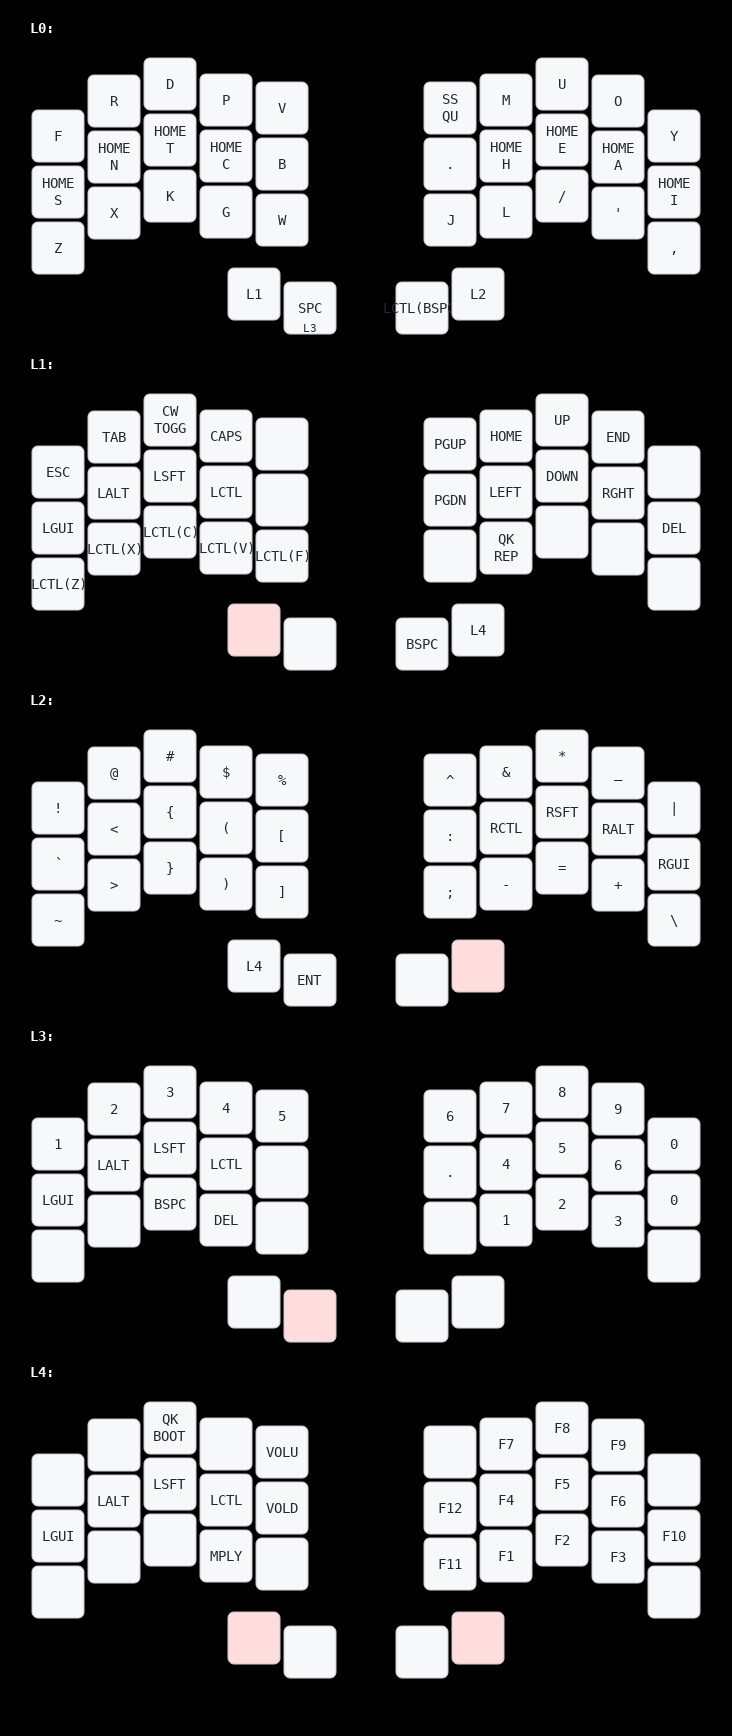
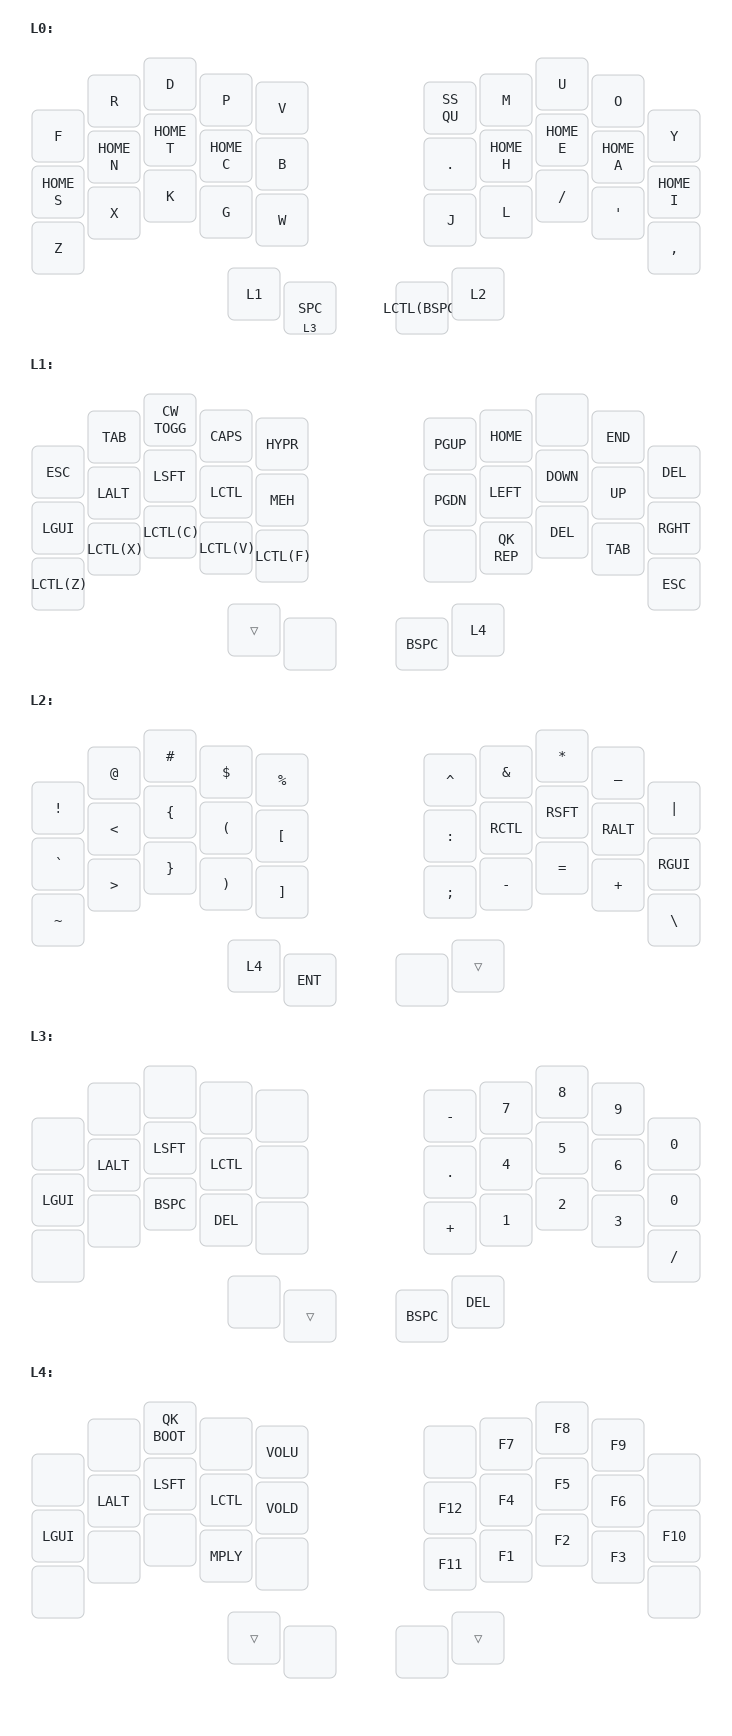
reduced tapping term, removed unused combos, removed number row, added math symbols to number layer, added esc tab del to right side on nav layer, added meh and hyper to nav layer for komorebi

diff --git a/keymap.c b/keymap.c
@@ -148,9 +148,10 @@ bool achordion_eager_mod(uint8_t mod) {
 // };
 // ! ======================================================================================
 
+
 //* Layout
 const uint16_t PROGMEM keymaps[][MATRIX_ROWS][MATRIX_COLS] = {
-	//Base (Recurva Colstag W-V Swap)
+	//Base (Recurva Colstag)
 	[0] = LAYOUT_split_3x5_2(
 		KC_F		, KC_R		  , KC_D		, KC_P		  , KC_V	  	 , 			SS_QU  		 , KC_M		   , KC_U   	 , KC_O  	   , KC_Y		 , 
 		HOME_S      , HOME_N      , HOME_T      , HOME_C      , KC_B	  	 , 			KC_DOT 		 , HOME_H      , HOME_E      , HOME_A      , HOME_I      , 
@@ -159,9 +160,9 @@ const uint16_t PROGMEM keymaps[][MATRIX_ROWS][MATRIX_COLS] = {
 
 	//Nav/Ext
 	[1] = LAYOUT_split_3x5_2(
-		KC_ESC    	, KC_TAB	  , CW_TOGG     , KC_CAPS     , KC_NO     	 , 			KC_PGUP		 , KC_HOME	   , KC_END  	 , KC_END 	   , KC_DEL 	   	 , 
-		KC_LGUI   	, KC_LALT  	  , KC_LSFT     , KC_LCTL     , KC_NO     	 , 			KC_PGDN		 , KC_LEFT	   , KC_DOWN	 , KC_UP	   , KC_RGHT	   	 ,
-		LCTL(KC_Z)	, LCTL(KC_X)  , LCTL(KC_C)  , LCTL(KC_V)  , LCTL(KC_F)	 , 			KC_NO		 , QK_REP 	   , KC_NO  	 , KC_NO  	   , KC_NO 	   	 , 
+		KC_ESC    	, KC_TAB	  , CW_TOGG     , KC_CAPS     , KC_HYPR      , 			KC_PGUP		 , KC_HOME	   , KC_NO  	 , KC_END 	   , KC_DEL	     , 
+		KC_LGUI   	, KC_LALT  	  , KC_LSFT     , KC_LCTL     , KC_MEH       , 			KC_PGDN		 , KC_LEFT	   , KC_DOWN	 , KC_UP	   , KC_RGHT	 ,
+		LCTL(KC_Z)	, LCTL(KC_X)  , LCTL(KC_C)  , LCTL(KC_V)  , LCTL(KC_F)	 , 			KC_NO		 , QK_REP 	   , KC_DEL  	 , KC_TAB  	   , KC_ESC 	 , 
 												  KC_TRNS	  , KC_NO	 	 , 			KC_BSPC		 , MO(4))	   ,
 	
 	//Symbol
@@ -173,9 +174,9 @@ const uint16_t PROGMEM keymaps[][MATRIX_ROWS][MATRIX_COLS] = {
 	
 	//Numpad
 	[3] = LAYOUT_split_3x5_2(
-		KC_1  		, KC_2  	  , KC_3		, KC_4  	  , KC_5	  	 , 			KC_6  		 , KC_7		   , KC_8		 , KC_9		   , KC_0	   	 , 
+		KC_NO  		, KC_NO  	  , KC_NO		, KC_NO  	  , KC_NO	  	 , 			KC_MINS  	 , KC_7		   , KC_8		 , KC_9		   , KC_0	   	 , 
 		KC_LGUI		, KC_LALT	  , KC_LSFT		, KC_LCTL	  , KC_NO	  	 , 			KC_DOT  	 , KC_4		   , KC_5		 , KC_6		   , KC_0 	   	 , 
-		KC_NO  		, KC_NO  	  , KC_BSPC  	, KC_DEL  	  , KC_NO	  	 ,			KC_NO  		 , KC_1		   , KC_2		 , KC_3		   , KC_NO	   	 ,
+		KC_NO  		, KC_NO  	  , KC_BSPC  	, KC_DEL  	  , KC_NO	  	 ,			KC_PLUS  	 , KC_1		   , KC_2		 , KC_3		   , KC_SLSH	 ,
 								 				  KC_NO       , KC_TRNS	  	 , 			KC_BSPC  	 , KC_DEL)	   ,
 	
 	//Function
@@ -186,7 +187,8 @@ const uint16_t PROGMEM keymaps[][MATRIX_ROWS][MATRIX_COLS] = {
 							   	   				  KC_TRNS	  , KC_NO		 , 			KC_NO		 , KC_TRNS)	   ,
 };
 
-//* Combos (Currently set up for Colemak-DH)
+//* Combos (Currently set up for Recurva)
+// Key Definitions
 // Left Hand
 const uint16_t PROGMEM combo1[] = {SS_QU, KC_U, COMBO_END}; // Q+U -> Q
 
@@ -201,12 +203,9 @@ const uint16_t PROGMEM combo8[] = {KC_V, KC_B, COMBO_END}; // V+B -> Left Brace 
 
 
 // Right Hand
-const uint16_t PROGMEM combo9[]  = {KC_G, LCTL(KC_BSPC), COMBO_END}; // Ctrl+Bkspc Key -> Backspace
 const uint16_t PROGMEM combo10[] = {KC_SLSH, KC_QUOT, COMBO_END}; // /+' -> Enter
 const uint16_t PROGMEM combo11[] = {KC_B, KC_DOT, COMBO_END}; // B+. -> Caps Word
-
 const uint16_t PROGMEM combo12[] = {KC_L, KC_SLSH, COMBO_END}; // L+/ -> Delete Bot
-// const uint16_t PROGMEM combo13[] = {KC_QUOT, KC_COMM, COMBO_END}; // '+, -> Delete Bot
 
 const uint16_t PROGMEM combo14[] = {SS_QU, KC_DOT, COMBO_END}; // Q+. -> Right Brace ]
 const uint16_t PROGMEM combo15[] = {KC_M, HOME_H, COMBO_END}; // M+H -> Right Parenthesis )
@@ -214,11 +213,7 @@ const uint16_t PROGMEM combo16[] = {KC_U, HOME_E, COMBO_END}; // U+E -> Right Cu
 const uint16_t PROGMEM combo17[] = {KC_O, HOME_A, COMBO_END}; // O+A -> Greater than >
 const uint16_t PROGMEM combo18[] = {KC_Y, HOME_I, COMBO_END}; // Y+I -> Semicolon ;
 
-// ! CURRENTLY UNUSED
-// ! ======================================================================================
-// const uint16_t PROGMEM combo17[] = {KC_DLR, KC_LPRN, COMBO_END}; //! requires US International, which breaks grave
-// ! ======================================================================================
-
+// Outcome Definitions
 combo_t key_combos[COMBO_COUNT] = {
     // Left Hand
     COMBO(combo1, KC_Q), // Q+U -> Q
@@ -234,21 +229,13 @@ combo_t key_combos[COMBO_COUNT] = {
 
 
     // Right Hand
-    COMBO(combo9, KC_BSPC), // Ctrl+Bkspc Key -> Backspace
 	COMBO(combo10, KC_ENT), // /+' -> Enter
 	COMBO(combo11, CW_TOGG), // B+. -> Caps Word
-
     COMBO(combo12, KC_DEL), // L+/ -> Delete Bot
-	// COMBO(combo13, KC_DEL), // '+, -> Delete Bot
 
     COMBO(combo14, KC_RBRC), // Q+. -> Right Brace ]
     COMBO(combo15, KC_RPRN), // M+H -> Right Parenthesis )
     COMBO(combo16, KC_RCBR), // U+E -> Right Curly Brace }
     COMBO(combo17, KC_GT), // O+A -> Greater than >
     COMBO(combo18, KC_SCLN), // Y+I -> Semicolon ;
-
-    // ! CURRENTLY UNUSED
-    // ! ======================================================================================
-    // COMBO(combo17, SS_POUND), //! requires US International, which breaks grave
-    // ! ======================================================================================
 };

diff --git a/config.h b/config.h
@@ -1,6 +1,6 @@
 #pragma once
 // Pick good defaults for enabling homerow modifiers
-#define TAPPING_TERM 220
+#define TAPPING_TERM 200
 #define PERMISSIVE_HOLD
 #define QUICK_TAP_TERM 0
 
